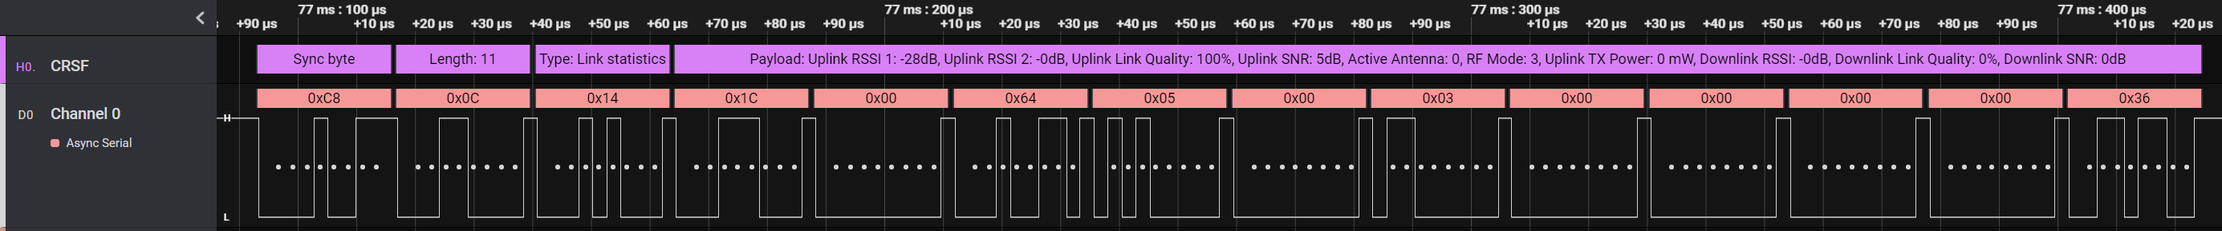
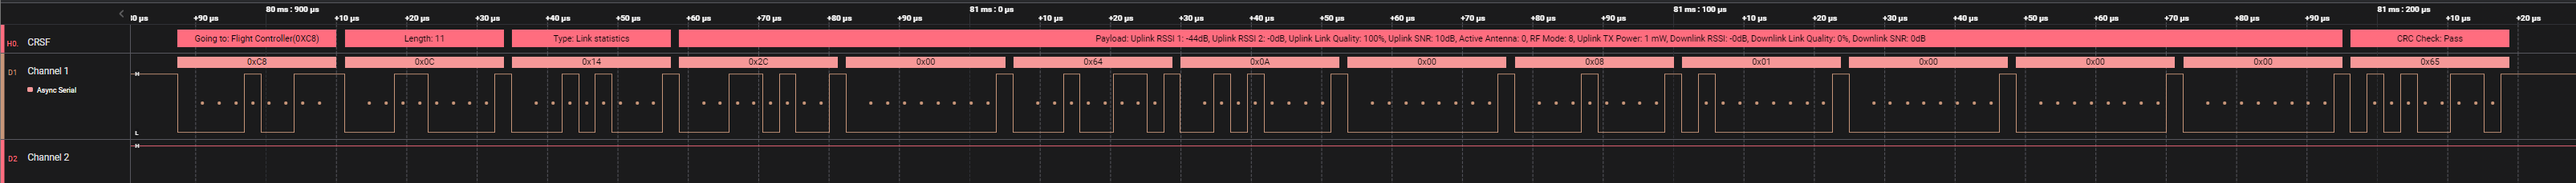
updated images + fixed to report actual length

diff --git a/HighLevelAnalyzer.py b/HighLevelAnalyzer.py
@@ -108,7 +108,7 @@ class Hla(HighLevelAnalyzer):
             self.crsf_frame_length = payload
             self.dec_fsm = self.dec_fsm_e.Type
             return AnalyzerFrame('crsf_length_byte', frame.start_time, frame.end_time, {
-                'length': str(payload - 1)
+                'length': str(payload)
             })
 
         # Type

diff --git a/README.md b/README.md
@@ -28,5 +28,5 @@ Some groundwork for additional frames already exists.
 * Additional supported frames
 * add check for aync serial
 * pass parameters like address , len and all for all frames
-* implement search for packet feature 
+* implement search for packet feature
 * add drop down for units in selection (ms or raw digital value)
